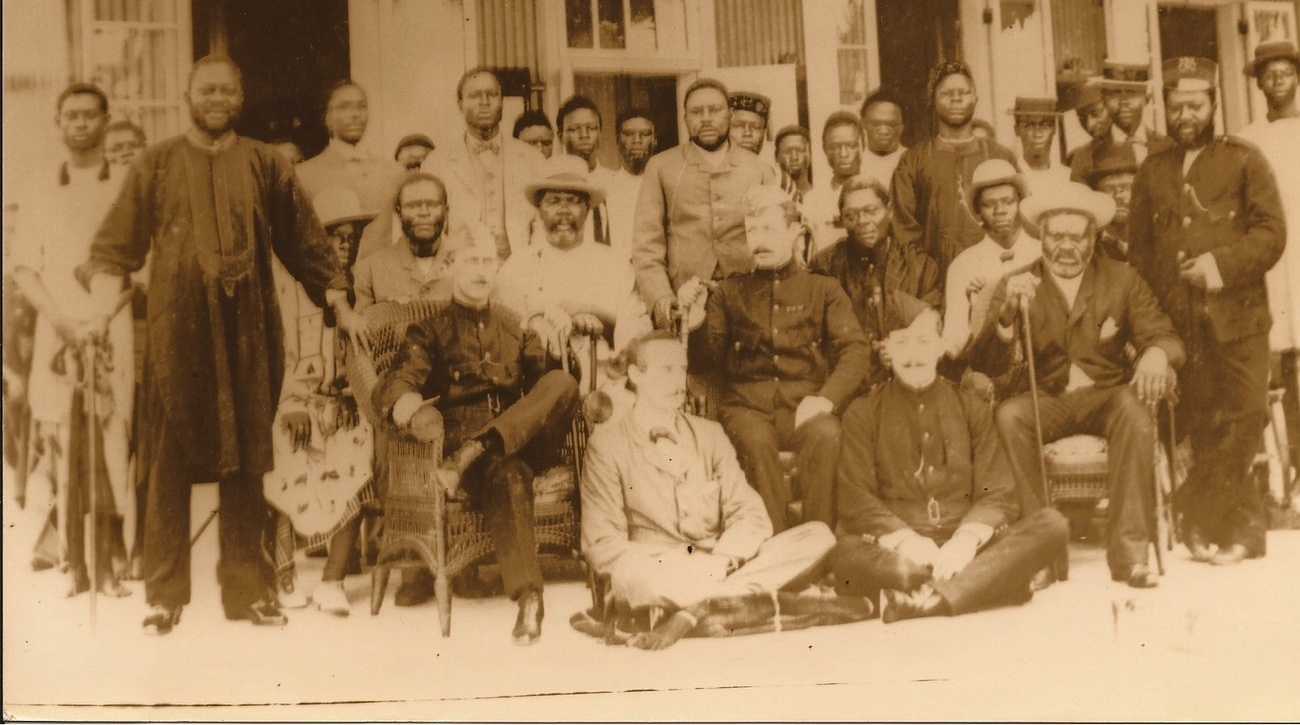
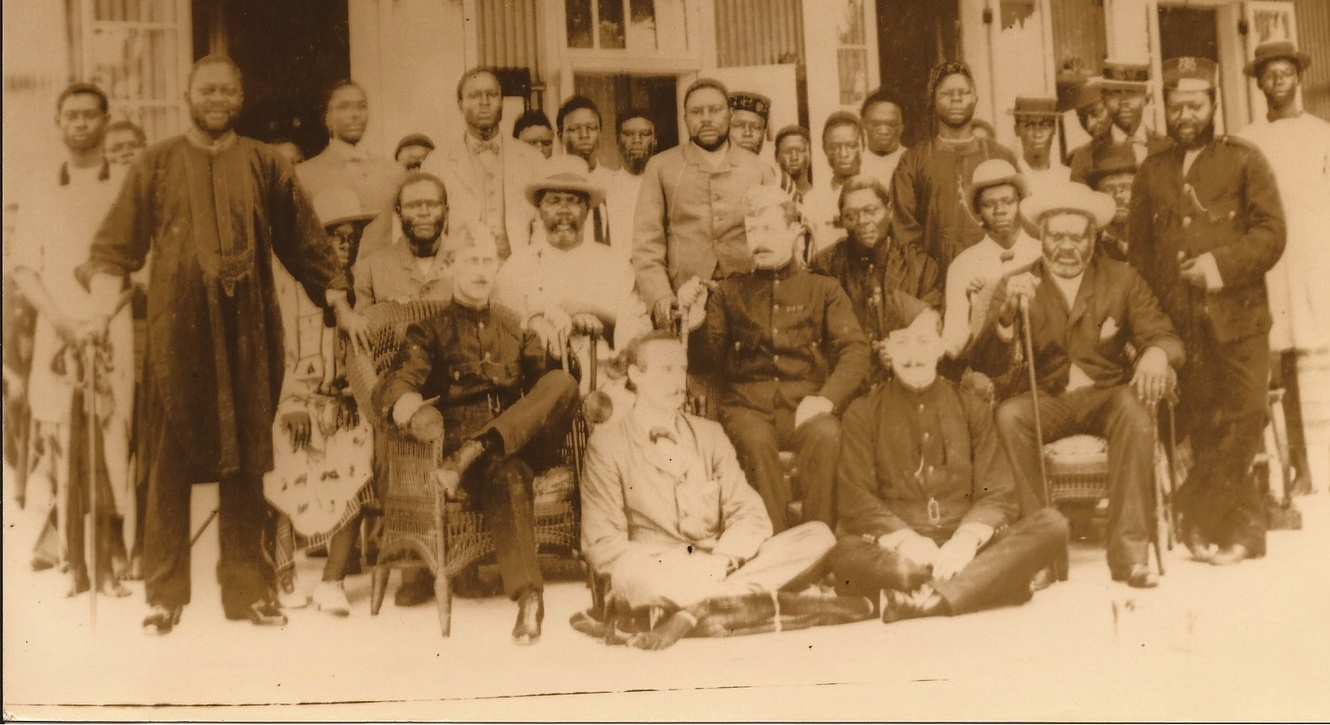
Fix arm crop and caption gap on Bonny chiefs photo
Restore the right edge of the crop so the rightmost figure's arm
isn't clipped, and let the caption sit directly below the framed
photo instead of pinned to the bottom of the tall sticky field,
which left a large empty gap once the image switched to contain.

diff --git a/src/styles/tfa-world.css b/src/styles/tfa-world.css
@@ -147,28 +147,23 @@
 }
 .tfa-photo-intro .sr-section-opener { background: none; padding-bottom: var(--s-4); }
 .tfa-zone--photo .sr-zone-field { width: clamp(320px, 56%, 720px); }
-.tfa-ph-fill { position: absolute; inset: 0; }
+.tfa-ph-fill { position: relative; width: 100%; }
 .tfa-ph-fill .sr-ph { height: 100%; border: none; }
 .tfa-ph-img {
   width: 100%;
-  height: 100%;
-  object-fit: contain;
-  object-position: center;
+  height: auto;
+  max-height: 70vh;
   display: block;
 }
-/* Caption sits over the photo at bottom of the sticky field */
+/* Caption sits directly below the framed photo, not pinned to the field's edge */
 .tfa-zone--photo .sr-zone-field .sr-zone-caption {
-  position: absolute;
-  bottom: 0;
-  left: 0;
-  right: 0;
-  z-index: 2;
+  position: static;
   max-width: 100%;
+  z-index: 2;
   background: rgba(40, 24, 8, 0.62);
   color: var(--t-cream);
   padding: var(--s-3) var(--s-6);
   text-align: left;
-  backdrop-filter: blur(2px);
 }
 
 /* ════════════════════════════════════════════════════════════════
